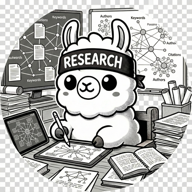
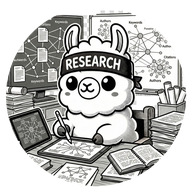
feat: 설치 아이콘을 원형으로 다듬고 미리보기를 넓힌다 (#277)
아이콘: Jiphyeonjeon_llama.png 은 사각 캔버스에 가짜 투명 체커보드가
픽셀로 구워진 이미지다(mode=RGB, 알파 없음). 그대로 설치 아이콘으로
쓰면 원 바깥은 흰 여백처럼, 원 안쪽은 회색 격자처럼 보인다.

favicon.svg 가 이미 쓰는 클립 규격(viewBox 128 기준 r=60, 이미지 4px
인셋 → 512 기준 r=240, 16px 인셋)을 그대로 적용해 파비콘과 같은
프레이밍을 유지한다. 구워진 체커보드는 12.8px 블록 단위로 검출해
흰색으로 채웠다. 이웃 블록이 반대 색조일 때만 배경으로 판정하므로
선화나 단색 아트는 건드리지 않는다.

원본 Jiphyeonjeon_llama.png 은 그대로 둔다. apple-touch-icon, 헤더
로고, JSON-LD logo, favicon.svg 가 모두 참조하고 있어 이번 요청 범위를
넘는다. 매니페스트만 새 icon-512.png 을 가리킨다.

미리보기: Chrome 이 설치 다이얼로그를 그리므로 폭을 직접 지정할 수는
없고, 스크린샷 종횡비가 유일한 레버다. 16:9(1.78)에서 1600x720
(2.22)으로 넓혔다. Chrome 상한은 2.3 배다.

선언한 sizes 와 실제 픽셀이 어긋나도 Chrome 은 조용히 최소 다이얼로그로
되돌아갈 뿐이라, 이번에 둘 다 바꾼 김에 그 구멍도 닫는다. Vite 의
?inline 로 받은 data URI 앞부분만 디코딩해 PNG IHDR 에서 실제 크기를
읽는다(node:fs 는 tsconfig types 에 없어 쓸 수 없다). 매니페스트가
glob 이 덮지 않는 이미지를 가리키면 조용히 넘어가지 않고 실패한다.

Claude-Session: https://claude.ai/code/session_01B3Ejx1ttL7vyBu1V1TQ9Hw

diff --git a/web-ui/src/test/pwaManifest.static.test.ts b/web-ui/src/test/pwaManifest.static.test.ts
@@ -25,6 +25,31 @@ const indexHtml = Object.values(
 // in this record is the file actually existing on disk.
 const publicImages = import.meta.glob('../../public/*.png', { eager: true });
 
+// Inlined as data URIs so the declared `sizes` can be checked against the real
+// pixels. Only the files the manifest points at — globbing all of public/ would
+// pull the multi-megabyte hero art into the test bundle. The test below fails if
+// the manifest grows an image this list does not cover.
+const pwaImages = import.meta.glob(
+  '../../public/{icon-192,icon-512,screenshot-home,screenshot-introduce}.png',
+  { eager: true, import: 'default', query: '?inline' },
+) as Record<string, string>;
+
+/** Width/height from a PNG IHDR, read off the front of a base64 data URI. */
+function pngPixels(dataUri: string): [number, number] {
+  const head = atob(dataUri.slice(dataUri.indexOf(',') + 1, dataUri.indexOf(',') + 1 + 64));
+  const bytes = Uint8Array.from(head, (ch) => ch.charCodeAt(0));
+  const view = new DataView(bytes.buffer);
+  return [view.getUint32(16), view.getUint32(20)];
+}
+
+/** Fails loudly rather than silently skipping an image the glob above misses. */
+function declaredVsActual(src: string, sizes: string): void {
+  const key = `../../public/${src.replace(/^\//, '')}`;
+  expect(key in pwaImages, `${src} is not covered by the pwaImages glob`).toBe(true);
+  const [width, height] = pngPixels(pwaImages[key]);
+  expect(`${width}x${height}`, `${src} is not really ${sizes}`).toBe(sizes);
+}
+
 const manifest = JSON.parse(manifestSource) as {
   name?: string;
   short_name?: string;
@@ -57,7 +82,7 @@ describe('PWA manifest (Chrome installability)', () => {
       .toContain(manifest.display);
   });
 
-  it('ships 192px and 512px icons that exist in public/', () => {
+  it('ships 192px and 512px icons that exist and really are those sizes', () => {
     for (const size of ['192x192', '512x512']) {
       const icon = manifest.icons?.find((candidate) => candidate.sizes === size);
       expect(icon, `manifest needs a ${size} icon`).toBeDefined();
@@ -65,6 +90,7 @@ describe('PWA manifest (Chrome installability)', () => {
         `../../public/${icon!.src.replace(/^\//, '')}` in publicImages,
         `${icon!.src} is missing from web-ui/public/`,
       ).toBe(true);
+      declaredVsActual(icon!.src, size);
     }
   });
 
@@ -113,6 +139,7 @@ describe('PWA manifest (Chrome installability)', () => {
         `../../public/${shot.src.replace(/^\//, '')}` in publicImages,
         `${shot.src} is missing from web-ui/public/`,
       ).toBe(true);
+      declaredVsActual(shot.src, shot.sizes);
 
       const [width, height] = shot.sizes.split('x').map(Number);
       for (const side of [width, height]) {
